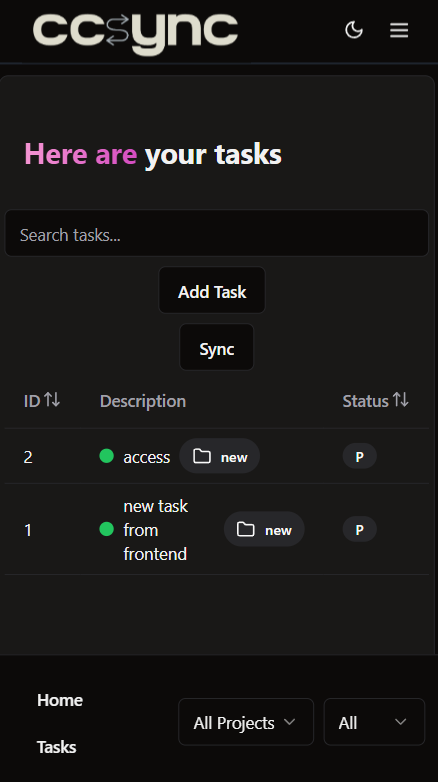
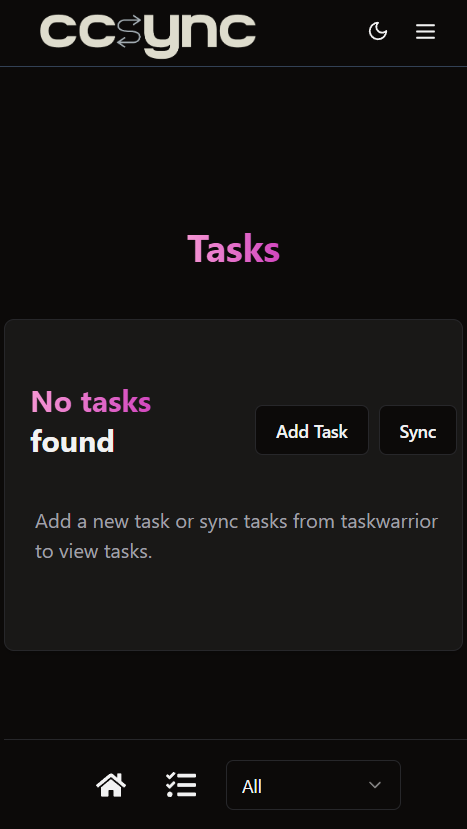
fix bottom panel design and status filter

diff --git a/frontend/src/components/HomeComponents/BottomBar/BottomBar.tsx b/frontend/src/components/HomeComponents/BottomBar/BottomBar.tsx
@@ -11,6 +11,7 @@ import {
 import { NavigationMenu } from '@/components/ui/navigation-menu';
 import { buttonVariants } from '@/components/ui/button';
 import { BottomBarProps } from './bottom-bar-utils';
+import { FaHome as HomeIcon, FaTasks as TasksIcon} from "react-icons/fa";
 
 const BottomBar: React.FC<BottomBarProps> = ({
   projects,
@@ -32,7 +33,7 @@ const BottomBar: React.FC<BottomBarProps> = ({
                 variant: 'ghost',
               })}`}
             >
-              Home
+              <HomeIcon className='w-6 h-6' />
             </a>
             <a
               rel="noreferrer noopener"
@@ -41,40 +42,49 @@ const BottomBar: React.FC<BottomBarProps> = ({
                 variant: 'ghost',
               })}`}
             >
-              Tasks
+              <TasksIcon className='w-6 h-6' />
             </a>
           </nav>
         </div>
         <Select
-          value={selectedProject || ''}
-          onValueChange={setSelectedProject}
-        >
-          <SelectTrigger className="w-[120px] mr-2">
-            <SelectValue placeholder="Select a project" />
+          value={
+            selectedProject !== 'all' ? `project-${selectedProject}` :
+            selectedStatus !== 'all' ? `status-${selectedStatus}` :
+            'all'
+          }
+          onValueChange={(value) => {
+            if (value.startsWith('project-')) {
+              const project = value.replace('project-', '');
+              setSelectedProject(project);
+              setSelectedStatus('all');
+            } else if (value.startsWith('status-')) {
+              const status = value.replace('status-', '');
+              setSelectedStatus(status);
+              setSelectedProject('all');
+            } else if (value === 'all') {
+              setSelectedProject('all');
+              setSelectedStatus('all');
+            }
+          }}
+          >
+          <SelectTrigger className="w-[140px]">
+            <SelectValue placeholder="Filter tasks" />
           </SelectTrigger>
           <SelectContent>
             <SelectGroup>
-              <SelectLabel>Projects</SelectLabel>
-              <SelectItem value="all">All Projects</SelectItem>
+              <SelectLabel className="text-base font-semibold">Projects</SelectLabel>
+              <SelectItem value="all">All</SelectItem>
               {projects.map((project) => (
-                <SelectItem key={project} value={project}>
+                <SelectItem key={`project-${project}`} value={`project-${project}`}>
                   {project}
                 </SelectItem>
               ))}
             </SelectGroup>
-          </SelectContent>
-        </Select>
-        <Select value={selectedStatus || ''} onValueChange={setSelectedStatus}>
-          <SelectTrigger className="w-[90px]">
-            <SelectValue placeholder="Select a project" />
-          </SelectTrigger>
-          <SelectContent>
             <SelectGroup>
-              <SelectLabel>Status</SelectLabel>
-              <SelectItem value="all">All</SelectItem>
-              {status.map((status) => (
-                <SelectItem key={status} value={status}>
-                  {status}
+              <SelectLabel className="text-base font-semibold">Status</SelectLabel>
+              {status.map((statusItem) => (
+                <SelectItem key={`status-${statusItem}`} value={`status-${statusItem}`}>
+                  {statusItem}
                 </SelectItem>
               ))}
             </SelectGroup>

diff --git a/frontend/src/components/HomeComponents/Tasks/Tasks.tsx b/frontend/src/components/HomeComponents/Tasks/Tasks.tsx
@@ -350,14 +350,18 @@ export const Tasks = (
   };
   useEffect(() => {
     let filteredTasks = tasks;
-
     // Project filter
     if (selectedProject !== 'all') {
       filteredTasks = filteredTasks.filter(
         (task) => task.project === selectedProject
       );
     }
-
+    // Status filter
+    if (selectedStatus !== 'all') {
+      filteredTasks = filteredTasks.filter(
+        (task) => task.status === selectedStatus
+      );
+    }
     // Tag filter
     if (selectedTag && selectedTag !== 'all') {
       filteredTasks = filteredTasks.filter(
@@ -367,7 +371,7 @@ export const Tasks = (
 
     // Sort + set
     setTempTasks(sortTasksById(filteredTasks, 'desc'));
-  }, [selectedProject, selectedTag, tasks]);
+  }, [selectedProject, selectedStatus, selectedTag, tasks]);
 
   const handleEditTagsClick = (task: Task) => {
     setEditedTags(task.tags || []);

diff --git a/frontend/src/components/HomeComponents/BottomBar/__tests__/BottomBar.test.tsx b/frontend/src/components/HomeComponents/BottomBar/__tests__/BottomBar.test.tsx
@@ -19,7 +19,9 @@ describe('BottomBar Component', () => {
       />
     );
 
-    expect(screen.getByText('Home')).toBeInTheDocument();
-    expect(screen.getByText('Tasks')).toBeInTheDocument();
+    // expect(screen.getByText('Home')).toBeInTheDocument();
+    // expect(screen.getByText('Tasks')).toBeInTheDocument();
+    const links = screen.getAllByRole('link');
+    expect(links).toHaveLength(2);
   });
 });
